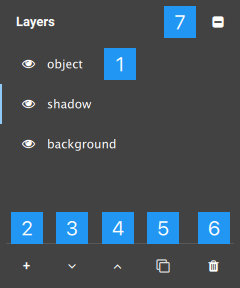
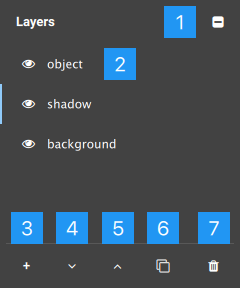
Update docs

diff --git a/tests/manual/resources/LayerMarkers.qml b/tests/manual/resources/LayerMarkers.qml
@@ -25,50 +25,50 @@ Item {
     id: root
 
     Screenshot.Marker {
+        parent: findChildHelper.findAnyChild(root.parent, "layerPanelHideShowToolButton")
+        anchors.right: parent.left
+        anchors.verticalCenter: parent.verticalCenter
+        number: 1
+    }
+
+    Screenshot.Marker {
         parent: findChildHelper.findAnyChild(root.parent, "object")
         anchors.centerIn: parent
-        number: 1
+        number: 2
     }
 
     Screenshot.Marker {
         parent: findChildHelper.findAnyChild(root.parent, "newLayerButton")
         anchors.horizontalCenter: parent.horizontalCenter
         anchors.bottom: parent.top
-        number: 2
+        number: 3
     }
 
     Screenshot.Marker {
         parent: findChildHelper.findAnyChild(root.parent, "moveLayerDownButton")
         anchors.horizontalCenter: parent.horizontalCenter
         anchors.bottom: parent.top
-        number: 3
+        number: 4
     }
 
     Screenshot.Marker {
         parent: findChildHelper.findAnyChild(root.parent, "moveLayerUpButton")
         anchors.horizontalCenter: parent.horizontalCenter
         anchors.bottom: parent.top
-        number: 4
+        number: 5
     }
 
     Screenshot.Marker {
         parent: findChildHelper.findAnyChild(root.parent, "duplicateLayerButton")
         anchors.horizontalCenter: parent.horizontalCenter
         anchors.bottom: parent.top
-        number: 5
+        number: 6
     }
 
     Screenshot.Marker {
         parent: findChildHelper.findAnyChild(root.parent, "deleteLayerButton")
         anchors.horizontalCenter: parent.horizontalCenter
         anchors.bottom: parent.top
-        number: 6
-    }
-
-    Screenshot.Marker {
-        parent: findChildHelper.findAnyChild(root.parent, "layerPanelHideShowToolButton")
-        anchors.right: parent.left
-        anchors.verticalCenter: parent.verticalCenter
         number: 7
     }
 }

diff --git a/tests/manual/resources/SwatchMarkers.qml b/tests/manual/resources/SwatchMarkers.qml
@@ -25,27 +25,27 @@ Item {
     id: root
 
     Screenshot.Marker {
-        parent: findChildHelper.findAnyChild(root.parent, "autoSwatchGridView")
-        anchors.centerIn: parent
+        parent: findChildHelper.findAnyChild(root.parent, "swatchesPanelHideShowToolButton")
+        anchors.right: parent.left
+        anchors.verticalCenter: parent.verticalCenter
         number: 1
     }
 
     Screenshot.Marker {
-        parent: findChildHelper.findAnyChild(root.parent, "swatchGridView")
+        parent: findChildHelper.findAnyChild(root.parent, "autoSwatchGridView")
         anchors.centerIn: parent
         number: 2
     }
 
     Screenshot.Marker {
-        parent: findChildHelper.findAnyChild(root.parent, "newSwatchColourButton")
-        anchors.left: parent.right
-        anchors.verticalCenter: parent.verticalCenter
+        parent: findChildHelper.findAnyChild(root.parent, "swatchGridView")
+        anchors.centerIn: parent
         number: 3
     }
 
     Screenshot.Marker {
-        parent: findChildHelper.findAnyChild(root.parent, "swatchesPanelHideShowToolButton")
-        anchors.right: parent.left
+        parent: findChildHelper.findAnyChild(root.parent, "newSwatchColourButton")
+        anchors.left: parent.right
         anchors.verticalCenter: parent.verticalCenter
         number: 4
     }

diff --git a/doc/user-interface.md b/doc/user-interface.md
@@ -4,18 +4,19 @@
 
 ![Swatches panel](https://github.com/mitchcurtis/slate/blob/master/doc/images/slate-swatches-panel.png)
 
-1. Displays auto swatch colours if enabled (**Settings > Enable auto swatch (experimental)**).
-2. Displays custom swatch colours.
-3. Creates a new custom swatch from the current colour.
-4. Toggles the visibility of the panel.
+1. Toggles the visibility of the panel.
+2. Displays auto swatch colours if enabled (**Settings > Enable auto swatch (experimental)**).
+3. Displays custom swatch colours.
+4. Creates a new custom swatch from the current colour.
 
 ## Layers
 
 ![Layers panel](https://github.com/mitchcurtis/slate/blob/master/doc/images/slate-layers-panel.png)
 
-1. Displays layers. Each layer can be hidden by clicking on the icon, and renamed by double-clicking on its name.
-2. Creates a new layer.
-3. Moves the current layer down.
-4. Moves the current layer up.
-5. Duplicates the current layer up.
-6. Delets the current layer.
+1. Toggles the visibility of the panel.
+2. Displays layers. Each layer can be hidden by clicking on the icon, and renamed by double-clicking on its name.
+3. Creates a new layer.
+4. Moves the current layer down.
+5. Moves the current layer up.
+6. Duplicates the current layer up.
+7. Deletes the current layer.
